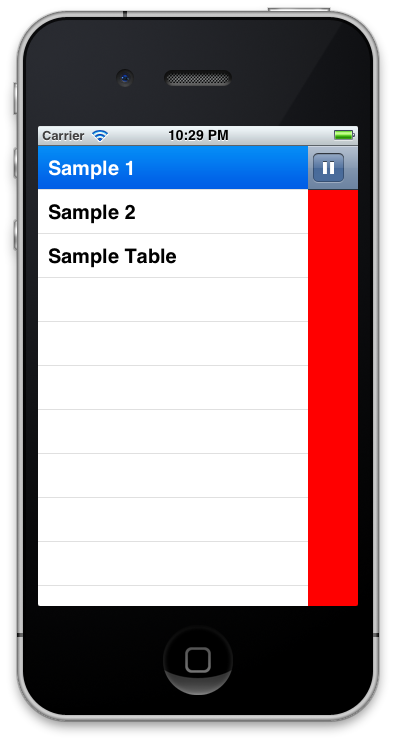
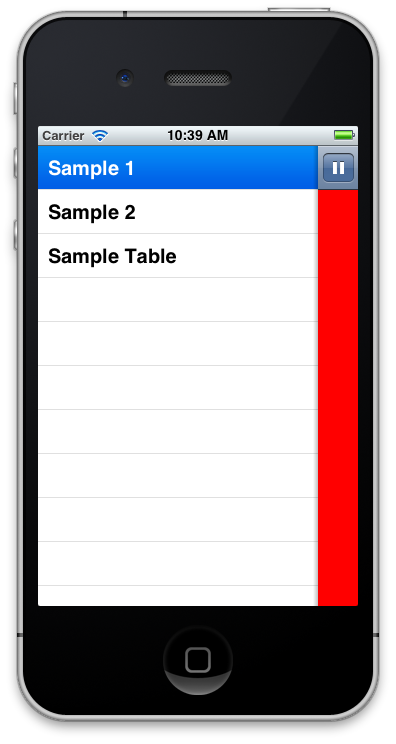
Added a subtle shadow to the top view

Changed region(s): [[0.7576, 0.1855, 0.9091, 0.8347], [0.4242, 0.1546, 0.5758, 0.1855]]

diff --git a/NAHiddenMenu/NAHiddenMenuController.m b/NAHiddenMenu/NAHiddenMenuController.m
@@ -6,11 +6,13 @@
 //
 
 #import "NAHiddenMenuController.h"
+#import <QuartzCore/QuartzCore.h>
 
-#define HIDDEN_MENU_WIDTH 270.0f 
+
+#define HIDDEN_MENU_WIDTH 280.0f 
 #define MENU_BAR_OFFSET 20.0
 #define REVEAL_ANIMATION_SPEED 0.4f
-
+#define PROXY_SHADOW_WIDTH 10.0
 
 @interface NAHiddenMenuController()
 @property (nonatomic, assign, readwrite) UIViewController *currentViewController;
@@ -90,7 +92,7 @@
         
         proxyViewFrame.origin.x = tableViewFrame.size.width;
         proxyViewFrame.size.height = proxyViewFrame.size.height + MENU_BAR_OFFSET;
-        proxyViewFrame.origin.y = MENU_BAR_OFFSET * -1;
+        proxyViewFrame.origin.y = -MENU_BAR_OFFSET;
         
         UIView *proxyView = [[UIView alloc] initWithFrame:proxyViewFrame];
         self.proxyView = proxyView;
@@ -99,7 +101,23 @@
         [proxyView release];
         #endif
         
-        // TODO: give the proxy view a shadow.
+        // Give the proxy view a subtle shadow
+        
+        CAGradientLayer *proxyShadow = [[CAGradientLayer alloc] init];
+        
+        proxyShadow.frame = CGRectMake(-PROXY_SHADOW_WIDTH, 0, PROXY_SHADOW_WIDTH, self.proxyView.frame.size.height);
+        
+        CGColorRef colour1 = [UIColor colorWithRed:0.0 green:0.0 blue:0.0 alpha:0.25].CGColor;
+        CGColorRef colour2 = [UIColor colorWithRed:0.0 green:0.0 blue:0.0 alpha:0.0].CGColor;
+        
+        proxyShadow.colors =[NSArray arrayWithObjects:(__bridge id)colour1, (__bridge id)colour2, nil];
+        proxyShadow.startPoint = CGPointMake(1, 1);
+        
+        [self.proxyView.layer addSublayer:proxyShadow];
+        
+        #if !__has_feature(objc_arc)
+        [proxyShadow release];
+        #endif
         
         [self.view addSubview:self.proxyView];
         
